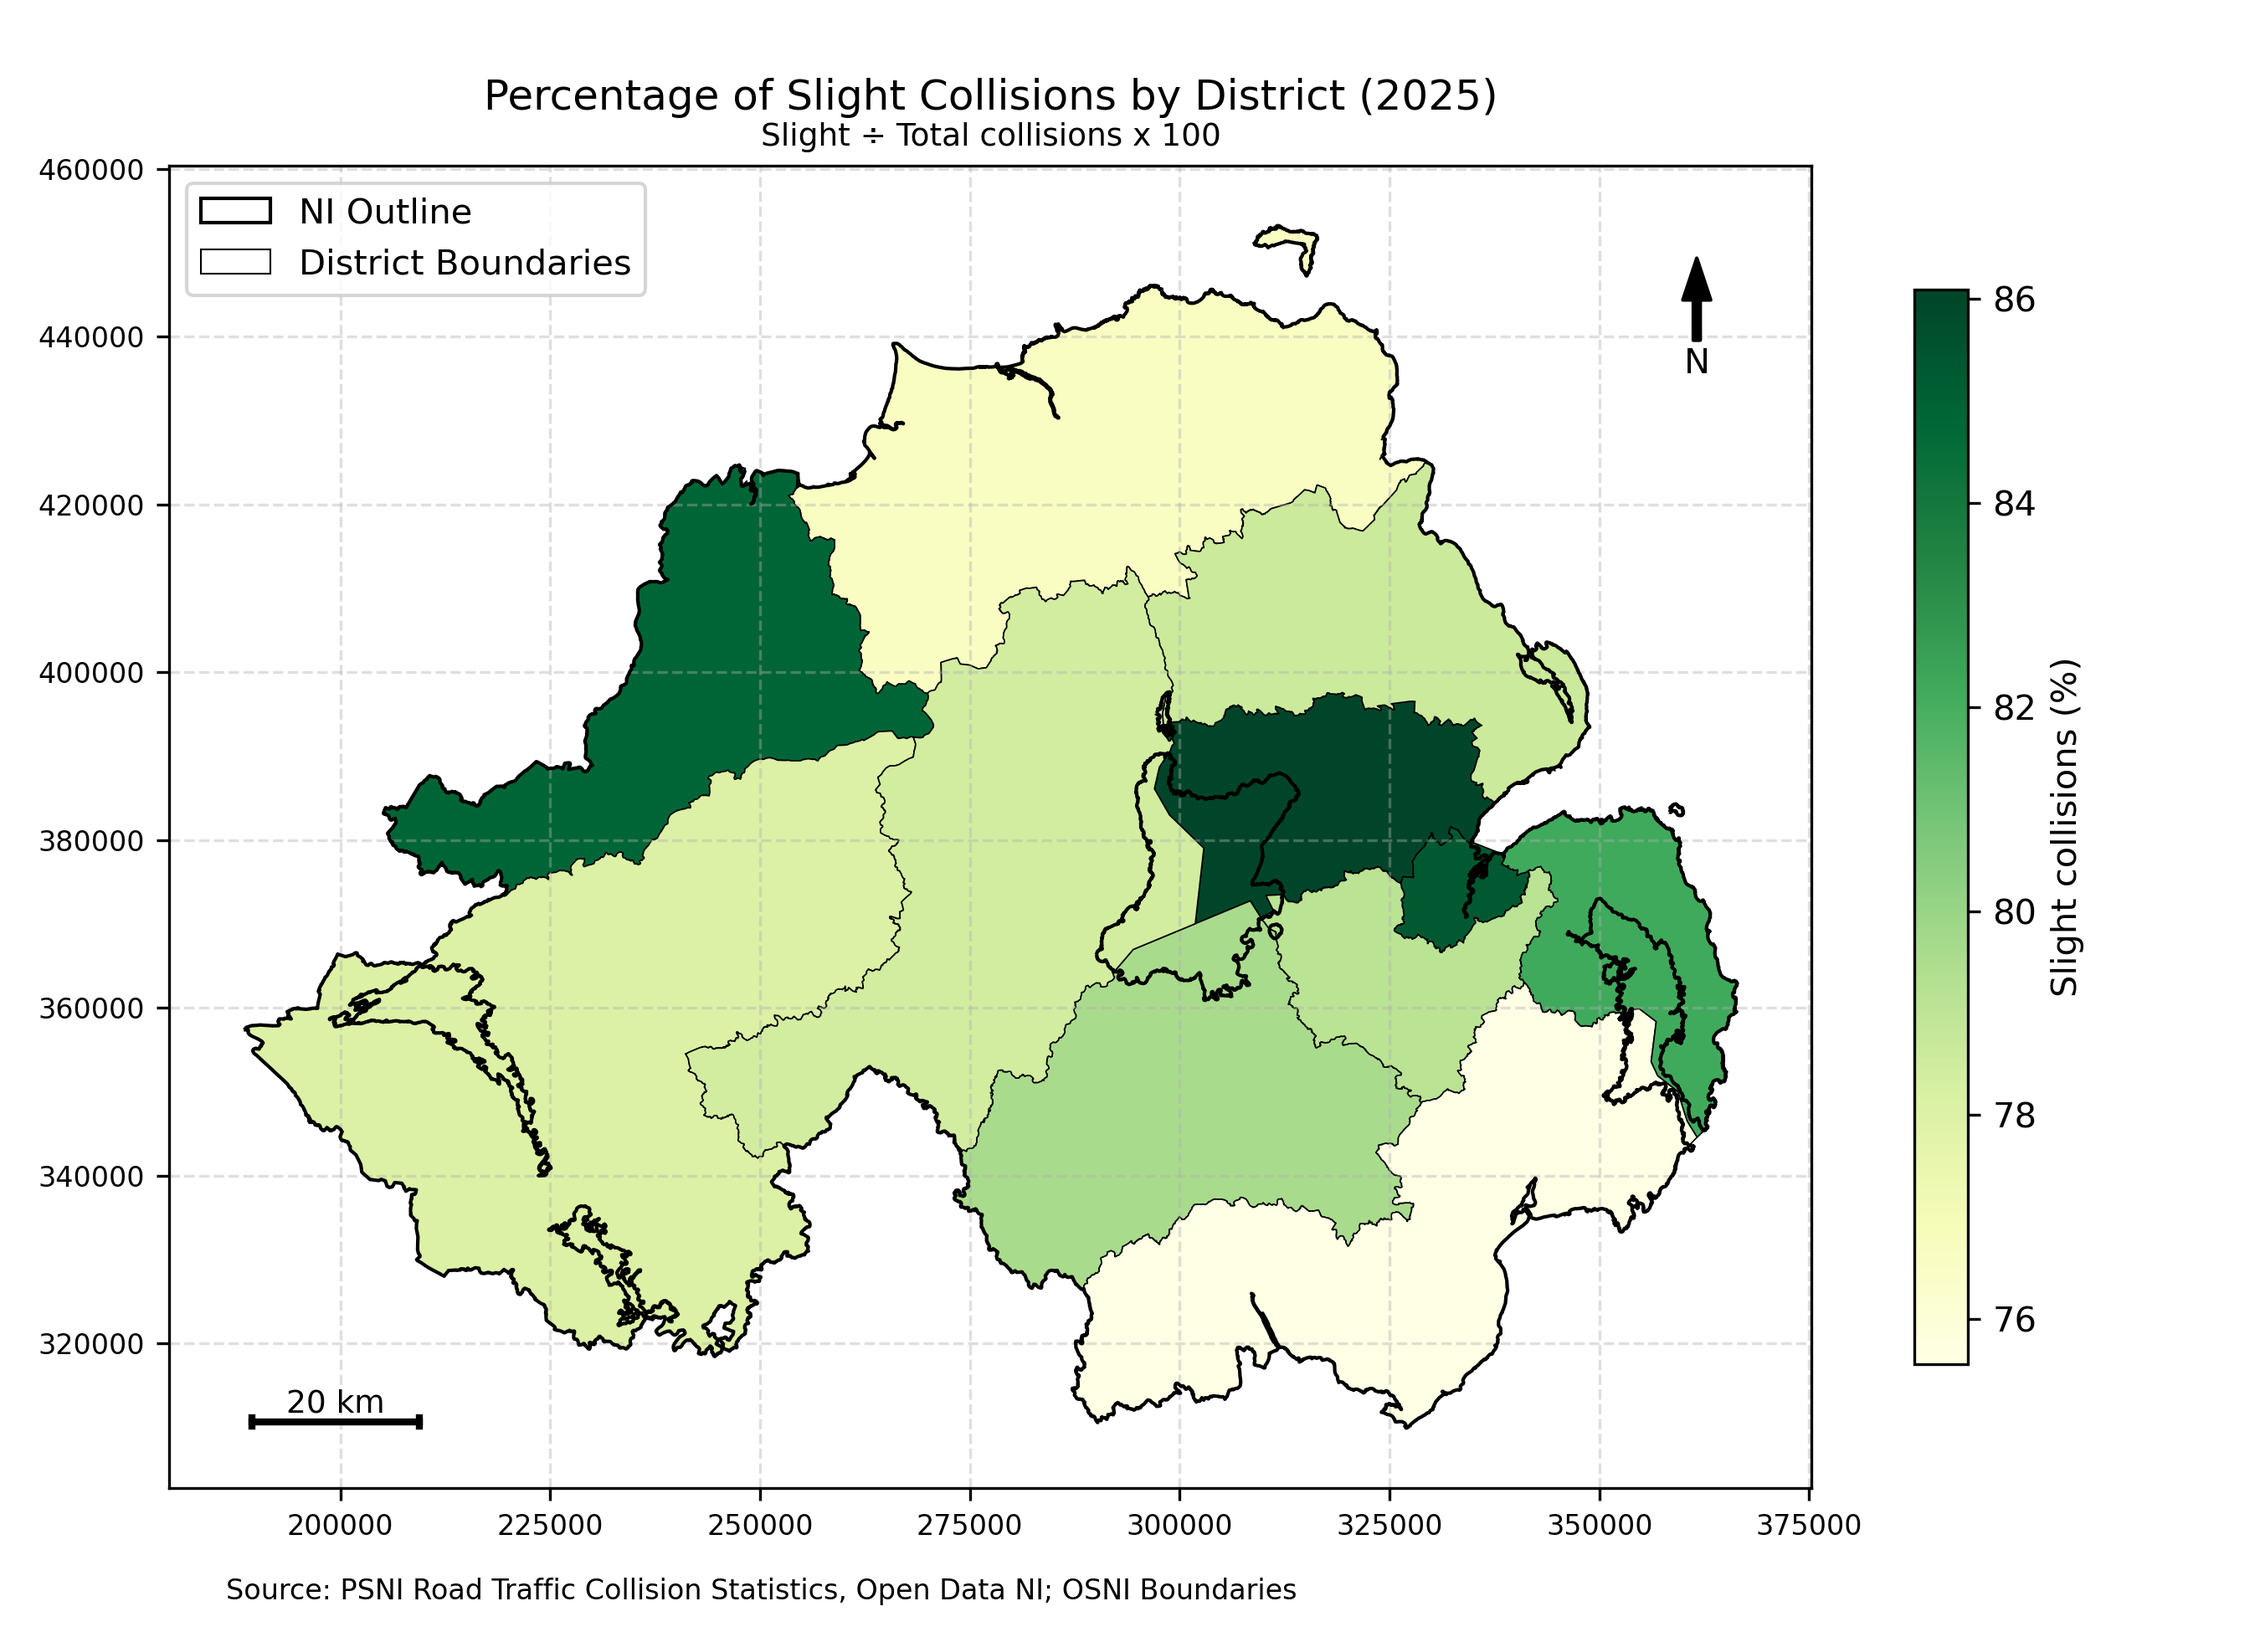
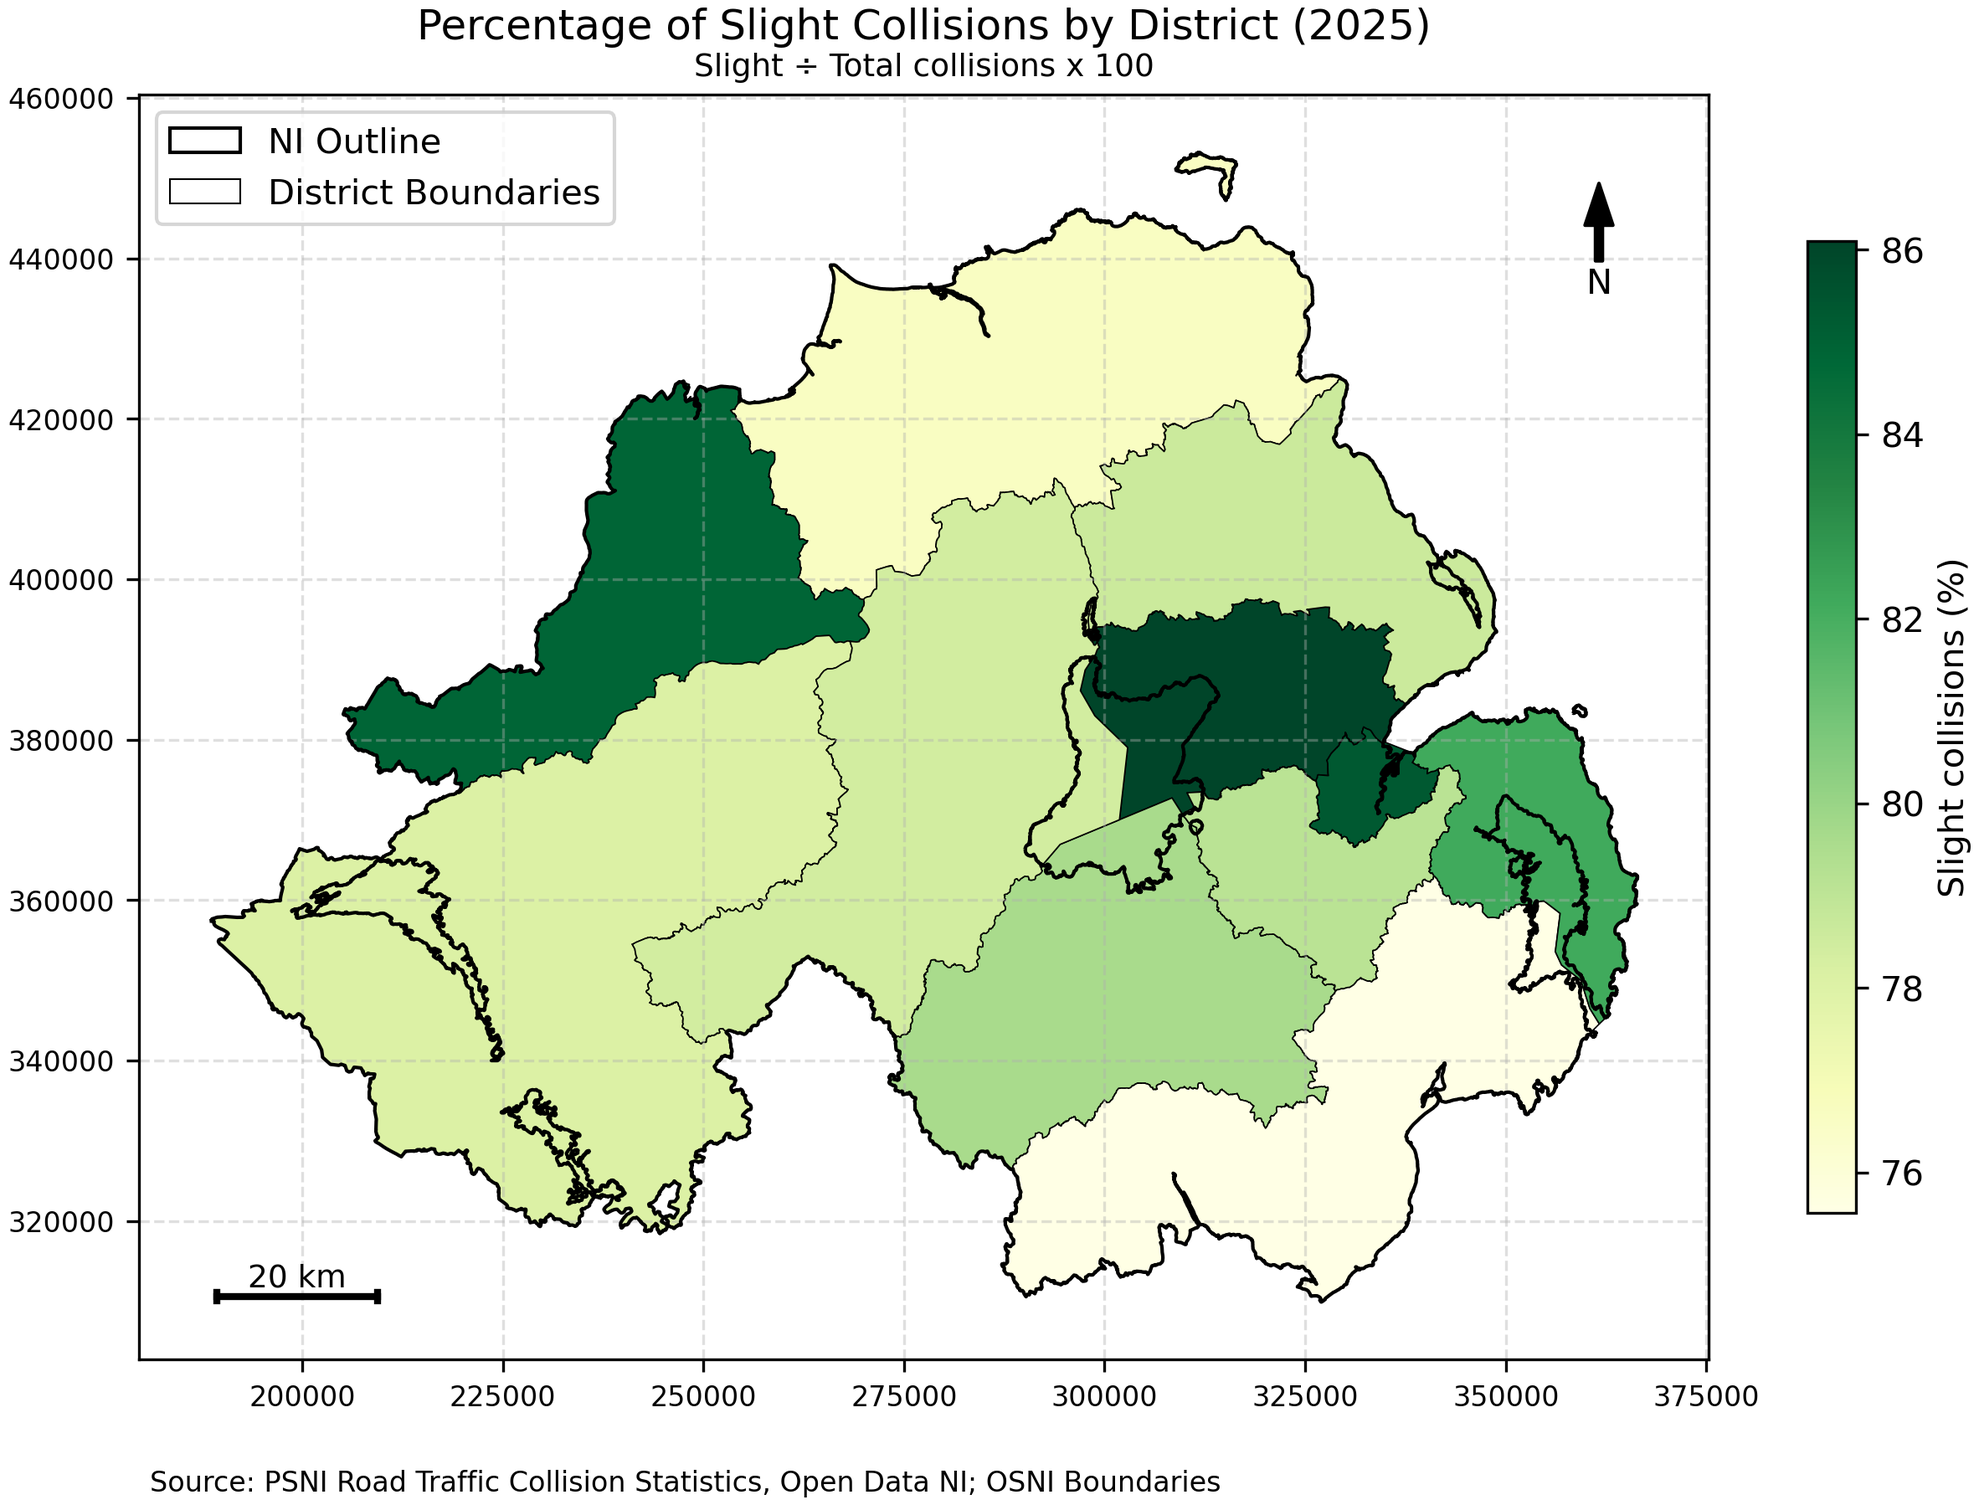
improving choropleth map
making maps tighter

diff --git a/ni_collision_analysis.py b/ni_collision_analysis.py
@@ -186,9 +186,9 @@ def create_choropleth_map(districts, severity_table, outline, output_dir, year,
     add_map_elements(ax)
 
     # Save map
-    plt.tight_layout()
+    plt.tight_layout(rect=[0.02,0.04, 0.98, 0.95])
     plt.savefig(
-        output_dir / output_filename, dpi=300)
+        output_dir / output_filename, dpi=300, bbox_inches="tight", pad_inches=0.03)
 
     plt.close()
 
